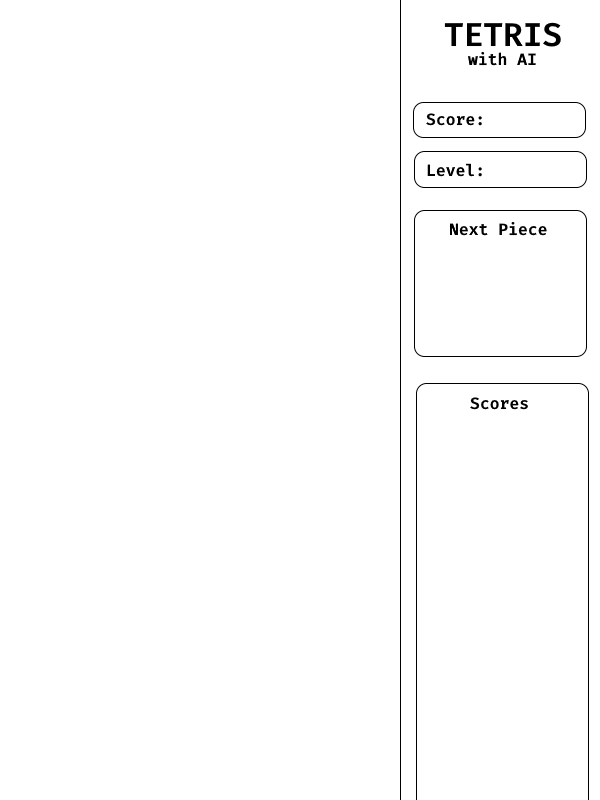
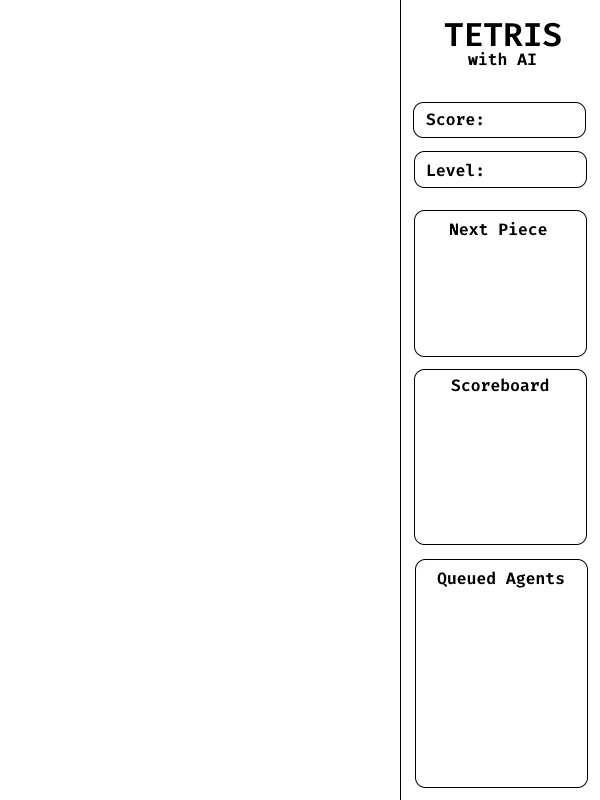
Add agent queue to game view
- Added methods to get client names in InputServerTaskQueue and
  InputServer
- Updated the background image to include a section for the
  queued agents and also updated the view to contain a section
  for the scoreboard (not implemented)
- Finished implementation of method to draw the agents on the
  screen itself

Changed region(s): [[0.69, 0.4688, 0.93, 1.0], [0.96, 0.4688, 0.99, 1.0], [0.75, 0.4688, 0.93, 0.5312]]

diff --git a/core/src/tech/richal/tetris/TetrisView.java b/core/src/tech/richal/tetris/TetrisView.java
@@ -46,7 +46,7 @@ public class TetrisView {
         backgroundImage = new Texture(Gdx.files.internal("background.png"));
     }
 
-    public void draw(SpriteBatch batch, Board board) {
+    public void draw(SpriteBatch batch, Board board, List<String> agents) {
         batch.begin();
         batch.draw(this.backgroundImage, 0, 0);
         this.drawBoard(batch, board.display());
@@ -56,6 +56,7 @@ public class TetrisView {
         } catch (NullNextTetromino e) {
             
         }
+        this.drawQueuedAgents(batch, agents);
         batch.end();
     }
 
@@ -93,9 +94,10 @@ public class TetrisView {
     }
 
     private void drawQueuedAgents(SpriteBatch batch, List<String> agents) {
-        for (String agent : agents) {
-            CharSequence agentString = agent;
-            bigFont.draw(batch, agentString, 425, 310);
+        for (int i = 0; i < agents.size(); i++) {
+            CharSequence agentString = Integer.toString(i + 1) + ". " + agents.get(i);
+
+            bigFont.draw(batch, agentString, 425, 200 - 25 * i);
         }
     }
 

diff --git a/core/src/tech/richal/tetris/inputserver/task/InputServerTaskQueue.java b/core/src/tech/richal/tetris/inputserver/task/InputServerTaskQueue.java
@@ -9,6 +9,7 @@ import tech.richal.tetris.inputserver.InputServerListener;
 public class InputServerTaskQueue implements InputServerTaskListener, Iterable<InputServerTask> {
     private ArrayList<InputServerTask> queued;
     private ArrayList<InputServerTask> unqueued;
+
     private InputServerListener inputListener;
 
     public InputServerTaskQueue(InputServerListener inputListener) {
@@ -21,6 +22,13 @@ public class InputServerTaskQueue implements InputServerTaskListener, Iterable<I
         this.unqueued.add(new InputServerTask(client, this.inputListener, this));
         new Thread(this.unqueued.get(this.unqueued.size() - 1)).start();
         this.update();
+    }
+
+    public ArrayList<String> getQueuedClientNames() {
+        final ArrayList<String> names = new ArrayList<String>();
+        this.queued.forEach((task) -> names.add(task.toString()));
+
+        return names;
     }
     
     @Override

diff --git a/core/src/tech/richal/tetris/inputserver/InputServer.java b/core/src/tech/richal/tetris/inputserver/InputServer.java
@@ -37,4 +37,8 @@ public class InputServer implements Runnable {
     public void sendMessageToConnections(String message) {
         this.tasks.forEach((task) -> task.sendMessageToConnection(message));
     }
+
+    public ArrayList<String> getQueuedClientNames() {
+        return this.tasks.getQueuedClientNames();
+    }
 }

diff --git a/core/src/tech/richal/tetris/TetrisScreen.java b/core/src/tech/richal/tetris/TetrisScreen.java
@@ -57,7 +57,7 @@ public class TetrisScreen extends ScreenAdapter implements InputServerListener {
             }
         }
 
-        this.view.draw(this.game.batch, tetrisBoard);
+        this.view.draw(this.game.batch, this.tetrisBoard, this.inputServer.getQueuedClientNames());
     }
 
     @Override
